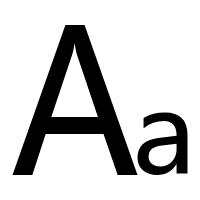
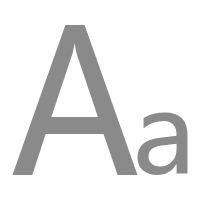
feat: finish write flex

Changed region(s): [[0.06, 0.12, 0.96, 0.9]]

diff --git a/src/pages/write/style.js b/src/pages/write/style.js
@@ -1,11 +1,15 @@
 import styled from 'styled-components';
-import IconfontBPic from '../../statics/weight.png'
-import Pic from '../../statics/pic.png'
-import HeaderPic from '../../statics/header.png'
-import DividePic from '../../statics/divide.png'
-import FormualPic from '../../statics/formula.png'
-import BreakoutPic from '../../statics/breakout.png'
-import HistoryPic from '../../statics/history.png'
+import IconfontBPic from '../../statics/weight.png';
+import Pic from '../../statics/pic.png';
+import HeaderPic from '../../statics/header.png';
+import DividePic from '../../statics/divide.png';
+import FormualPic from '../../statics/formula.png';
+import BreakoutPic from '../../statics/breakout.png';
+import HistoryPic from '../../statics/history.png';
+import FilePic from '../../statics/file.png';
+import IssuePic from '../../statics/post.png';
+import ExpandPic from '../../statics/fullscreen.png';
+import SavePic from '../../statics/save.png';
 export const WriterWrapper = styled.div`
   display: block
   z-index: 0;
@@ -169,10 +173,13 @@ export const NoPicture = styled.div`
   position: absolute;
   top: 30px;
   left: 20px;
-  .pic {
-    width: 22px;
-    height: 30px;
-  }
+  width: 22px;
+  height: 30px;
+  background:url(${FilePic});
+  padding: 8px 3px;
+  background-size:contain;
+  background-repeat:no-repeat;
+  display: block;
 `;
 export const Number = styled.div`
   position: absolute;
@@ -231,6 +238,7 @@ export const IconfontB = styled.div`
   overflow: hidden;
   float: left;
   margin: 8px 10px;
+  cursor: pointer;
 `;
 export const WriterPic = styled.div`
   height: 17.1px;
@@ -243,6 +251,7 @@ export const WriterPic = styled.div`
   overflow: hidden;
   float: left;
   margin: 8px 5px;
+  cursor: pointer;
 `;
 export const HeadPic = styled.div`
   height: 15.1px;
@@ -255,6 +264,7 @@ export const HeadPic = styled.div`
   overflow: hidden;
   float: left;
   margin: 8px 23px;
+  cursor: pointer;
 `;
 export const Divide = styled.div`
   height: 15.1px;
@@ -267,6 +277,7 @@ export const Divide = styled.div`
   overflow: hidden;
   float: left;
   margin: 8px 10px;
+  cursor: pointer;
 `;
 export const Formual = styled.div`
   height: 15.1px;
@@ -279,6 +290,7 @@ export const Formual = styled.div`
   overflow: hidden;
   float: left;
   margin: 8px 10px;
+  cursor: pointer;
 `;
 export const Breakout = styled.div`
   height: 15.1px;
@@ -291,6 +303,7 @@ export const Breakout = styled.div`
   overflow: hidden;
   float: left;
   margin: 8px 10px;
+  cursor: pointer;
 `;
 export const History = styled.div`
   height: 15.1px;
@@ -303,4 +316,72 @@ export const History = styled.div`
   overflow: hidden;
   float: left;
   margin: 8px 10px;
+  cursor: pointer;
 `;
+export const WriteFunction = styled.div`
+  position: absolute;
+  top: 65px;
+  right: 0;
+  height: 39px;
+  width: 200px;
+  overflow: hidden;
+  font-size: 13px;
+`;
+export const IssueArticle = styled.div`
+  position: absolute;
+  width: 69px;
+  height: 17px;
+  color: #595959;
+  padding: 11px 14px;
+  display: inline-block;
+  line-height: 17px;
+  right: 0;
+  cursor: pointer;
+`
+export const Issue = styled.div`
+  position: absolute;
+  background:url(${IssuePic});
+  background-size:contain;
+  background-repeat:no-repeat;
+  display: block;
+  width: 13px;
+  height: 13px;
+  line-height: 13px;
+  left:0;
+  bottom:13px;
+  cursor: pointer;
+`;
+export const Expand = styled.div`
+  height: 15.1px;
+  width: 15px;
+  color: #595959;
+  padding: 8px 3px;
+  display: inline-block;
+  background:url(${ExpandPic});
+  background-size:contain;
+  background-repeat:no-repeat;
+  margin-top: 8px;
+  margin-left: 65px;
+  cursor: pointer;
+`;
+export const Save = styled.div`
+  height: 15.1px;
+  width: 15px;
+  color: #595959;
+  padding: 8px 3px;
+  display: inline-block;
+  background:url(${SavePic});
+  background-size:contain;
+  background-repeat:no-repeat;
+  margin-top: 8px;
+  margin-left: -65px;
+  cursor: pointer;
+`;
+export const TextArea = styled.textarea`
+  cols="100"; 
+  rows="100";
+  width: 746px;
+  height: 100%;
+  border: none;
+  font-size:18px;
+`

diff --git a/src/pages/write/index.js b/src/pages/write/index.js
@@ -1,7 +1,7 @@
 import React, { PureComponent } from 'react';
 import { Redirect } from 'react-router-dom';
 import { connect } from 'react-redux';
-import { WriterWrapper,WriterLeft,Button,NewArticle,NewPart,Input,Diary,Writing,Submit,Cancel,WritingAntd,Setting,Question,WritingMiddle,Article,NoTitle,NoArticle,NoPicture,Number,DownArticle,WritingRight,Saved,NoTitleArticle,WriterIconfont,IconfontB,WriterPic,HeadPic,Divide,Formual,Breakout,History} from './style';
+import { WriterWrapper,WriterLeft,Button,NewArticle,NewPart,Input,Diary,Writing,Submit,Cancel,WritingAntd,Setting,Question,WritingMiddle,Article,NoTitle,NoArticle,NoPicture,Number,DownArticle,WritingRight,Saved,NoTitleArticle,WriterIconfont,IconfontB,WriterPic,HeadPic,Divide,Formual,Breakout,History,WriteFunction,IssueArticle,Issue,Expand,Save,TextArea} from './style';
 class Write extends PureComponent {
   render() {
     const { loginStatus } = this.props;
@@ -27,9 +27,7 @@ class Write extends PureComponent {
             <Article><strong>+</strong>新建文集</Article>
             <NoTitle>
               <NoArticle>无标题文章</NoArticle>
-              <NoPicture>
-                <img className='pic' alt='' src='http://img2.imgtn.bdimg.com/it/u=2277892914,4166593710&fm=26&gp=0.jpg' />
-              </NoPicture>
+              <NoPicture />
               <Number>字数:0</Number>
             </NoTitle>
             <DownArticle><strong>+</strong>在下方新建文件</DownArticle>
@@ -45,7 +43,15 @@ class Write extends PureComponent {
               <Formual />
               <Breakout />
               <History />
+              <WriteFunction>
+                <IssueArticle>
+                  <Issue />发布文章
+                </IssueArticle>
+                <Expand />
+                <Save />
+              </WriteFunction>
             </WriterIconfont>
+            <TextArea></TextArea>
           </WritingRight>
         </WriterWrapper>
       )

diff --git a/src/common/header/style.js b/src/common/header/style.js
@@ -1,6 +1,8 @@
 import styled from 'styled-components';
 import logoPic from '../../statics/logo.png';
-import PencilPic from '../../statics/pencil.png'
+import PencilPic from '../../statics/pencil.png';
+import SearchPic from '../../statics/search.png';
+import AaPic from '../../statics/Aa.png'
 
 export const HeaderWrapper = styled.div`
   z-index: 1;
@@ -29,7 +31,8 @@ export const NavItem = styled.div`
   line-height: 56px;
   padding:0 15px;
   font-size:17px;
-  color:#333; 
+  color:#333;
+  margin-right: 1px;
   &.left {
     float:left;
   }
@@ -40,6 +43,17 @@ export const NavItem = styled.div`
   &.active {
     color: #ea6f5a;
   }
+`;
+export const NavAa = styled.div`
+  width: 10px;
+  height: 14px;
+  line-height: 14px;
+  padding: 14px 8px 1px 5px;
+  margin-top:15px;
+  background:url(${AaPic});
+  background-size:contain;
+  background-repeat:no-repeat;
+  cursor: pointer;
 `;
 export const SearchWrapper = styled.div`
   position:relative;
@@ -57,6 +71,16 @@ export const SearchWrapper = styled.div`
       color:#fff;
     }
   }
+`;
+export const Search = styled.div`
+  width: 20px;
+  height: 20px;
+  font-size: 20px;
+  vertical-align: middle;
+  background:url(${SearchPic});
+  background-size:contain;
+  background-repeat:no-repeat;
+  margin: 4px;
 `
 export const NavSearch = styled.input.attrs({
   placeholder:'搜索'
@@ -165,13 +189,13 @@ export const Button = styled.div`
 `;
 export const Pencil = styled.div`
   float: left;
-  width: 15px;
-  height: 15px;
+  width: 18px;
+  height: 18px;
   margin-right: 5px;
-  font-size: 30px;
+  font-size: 18px;
   vertical-align: middle;
   background:url(${PencilPic});
   background-size:contain;
   background-repeat:no-repeat;
-  margin-top:12px;
+  margin-top:10px;
 `;

diff --git a/src/common/header/index.js b/src/common/header/index.js
@@ -4,7 +4,7 @@ import { Link } from 'react-router-dom';
 import { CSSTransition } from 'react-transition-group';
 import  { actionCreators } from './store';
 import { actionCreators as loginActionCreators } from '../../pages/login/store'
-import {  HeaderWrapper,Logo,NAV,NavItem,SearchWrapper, NavSearch,SearchInfo,SearchInfoTitle,SearchInfoSwitch,SearchInfoList,SearchInfoItem,Addition,Button,Pencil} from './style';
+import {  HeaderWrapper,Logo,NAV,NavItem,SearchWrapper, Search,NavSearch,SearchInfo,SearchInfoTitle,SearchInfoSwitch,SearchInfoList,SearchInfoItem,Addition,Button,Pencil,NavAa} from './style';
 class Header extends Component {
   getListArea() {
     const {focused, list, page, totalPage,mouseIn,handleMouseEnter, handleMouseLeave, handleChangePage } = this.props;
@@ -57,7 +57,7 @@ class Header extends Component {
             <Link to='/login'><NavItem className='right'>登录</NavItem></Link>
           }
           <NavItem className='right'>
-            <i className="iconfont">Aa</i>
+            <NavAa />
           </NavItem>
           <SearchWrapper>
             <CSSTransition
@@ -72,7 +72,7 @@ class Header extends Component {
               ></NavSearch>
             </CSSTransition>
             <i className={focused ? 'focused iconfont zoom' : 'iconfont zoom'}>
-            &#xe69d;
+            <Search />
             </i>
             {this.getListArea()}
           </SearchWrapper>

diff --git a/src/pages/login/style.js b/src/pages/login/style.js
@@ -5,7 +5,7 @@ export const LoginWrapper = styled.div`
   position: absolute;
   left: 0;
   right: 0;
-  top: 56px;
+  top: 60px;
   background: #eee;
   font-size: 14px;
 `;
